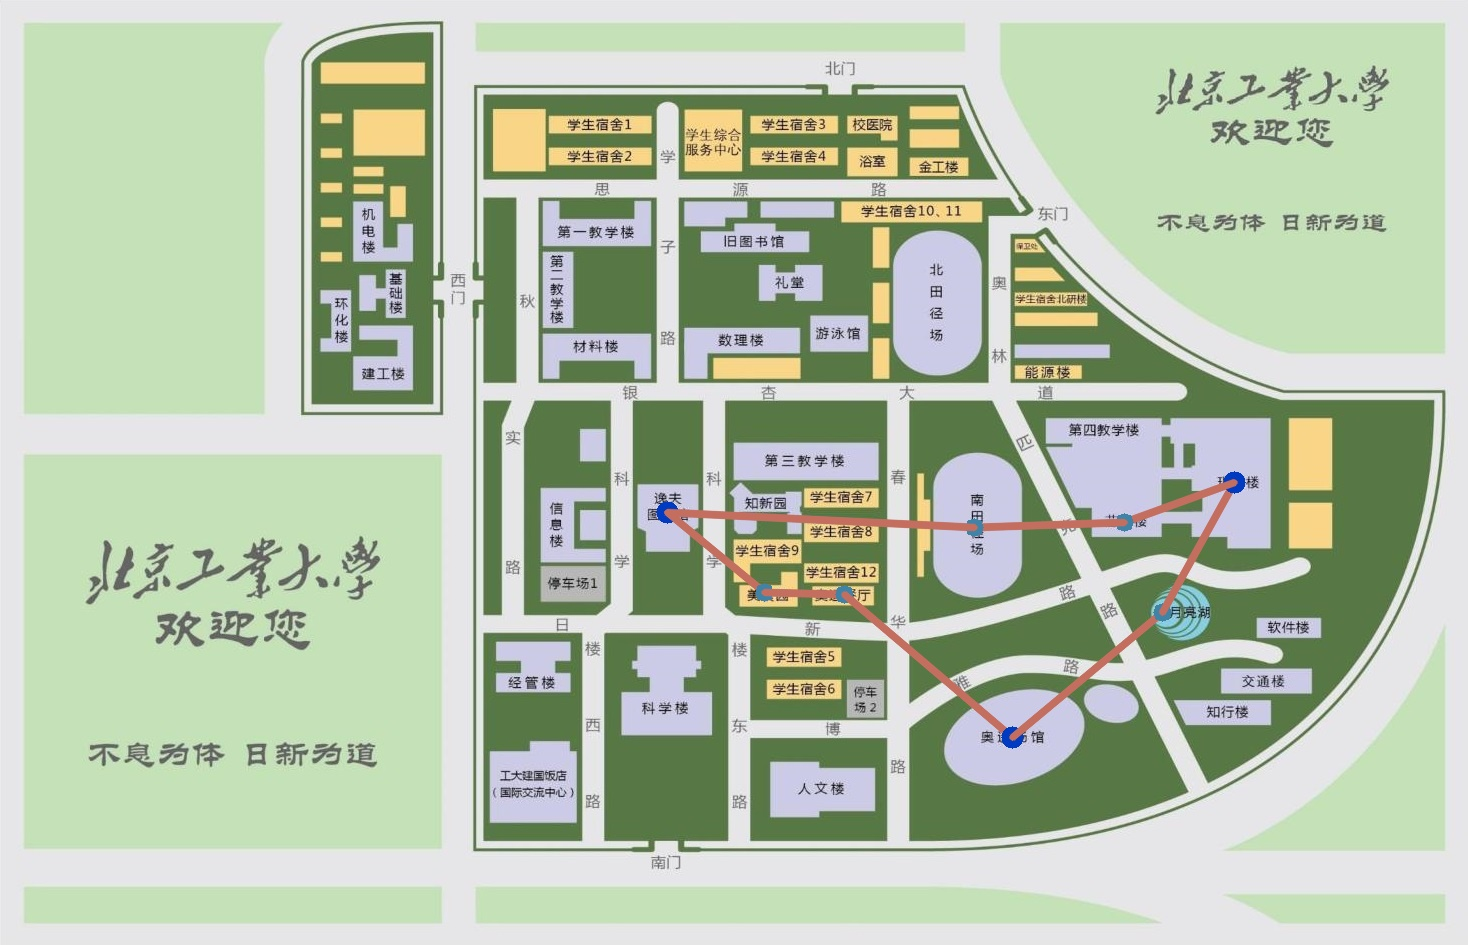
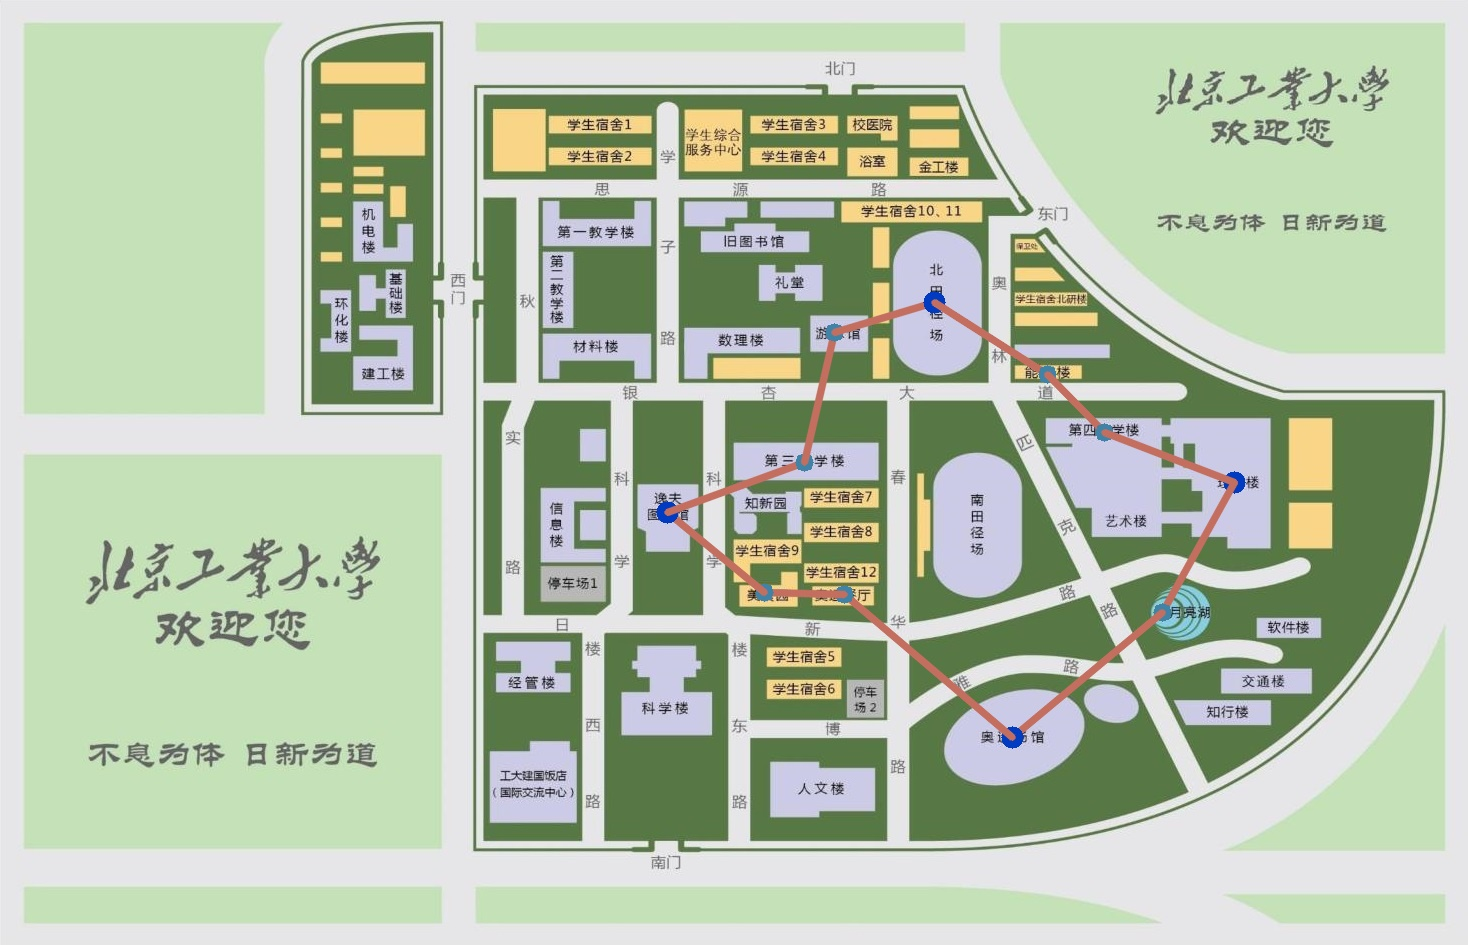
修正简化路线多线程冲突的BUG

diff --git a/code/widget.py b/code/widget.py
@@ -888,6 +888,7 @@ class MainWindow(QWidget):
         self.new_road.GetCitysName()
 
         self.Main_text += "\n已为您智能略去目的地："
+        print(self.del_pos)
         exec(f"text = self.A{self.del_pos}.toolTip()")
         exec("self.Main_text += text ")
         self.Main_text += '\n减少的的距离为：'
@@ -914,9 +915,7 @@ class MainWindow(QWidget):
         pos.remove(item)
         road = copy.deepcopy(self.tsp_backtrack.run(pos))
         if road.min_distance < self.new_road.min_distance:
-            self.new_road.min_distance = road.min_distance
-            self.new_road.simple_road = road.simple_road
-            self.new_road.entire_road = road.entire_road
+            self.new_road = road
             self.del_pos = item
         self.tsp_backtrack.ClearAll()
 

diff --git a/code/Route.py b/code/Route.py
@@ -23,6 +23,7 @@ class Route:
             for item in text:
                 city = item.split(' ')
                 self.citys.append(city)
+        f.close()
 
         for item in self.simple_road:
             self.simple_citys_name.append(self.citys[item][1])
